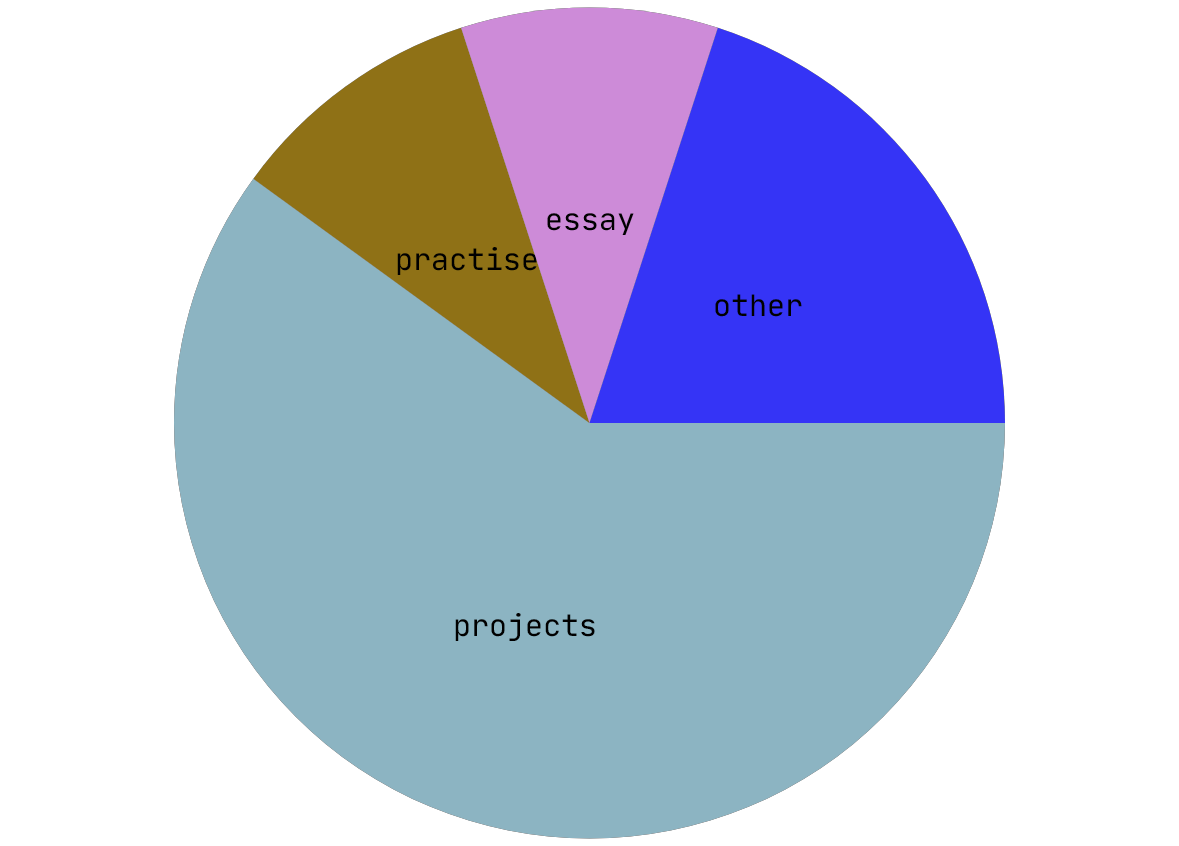
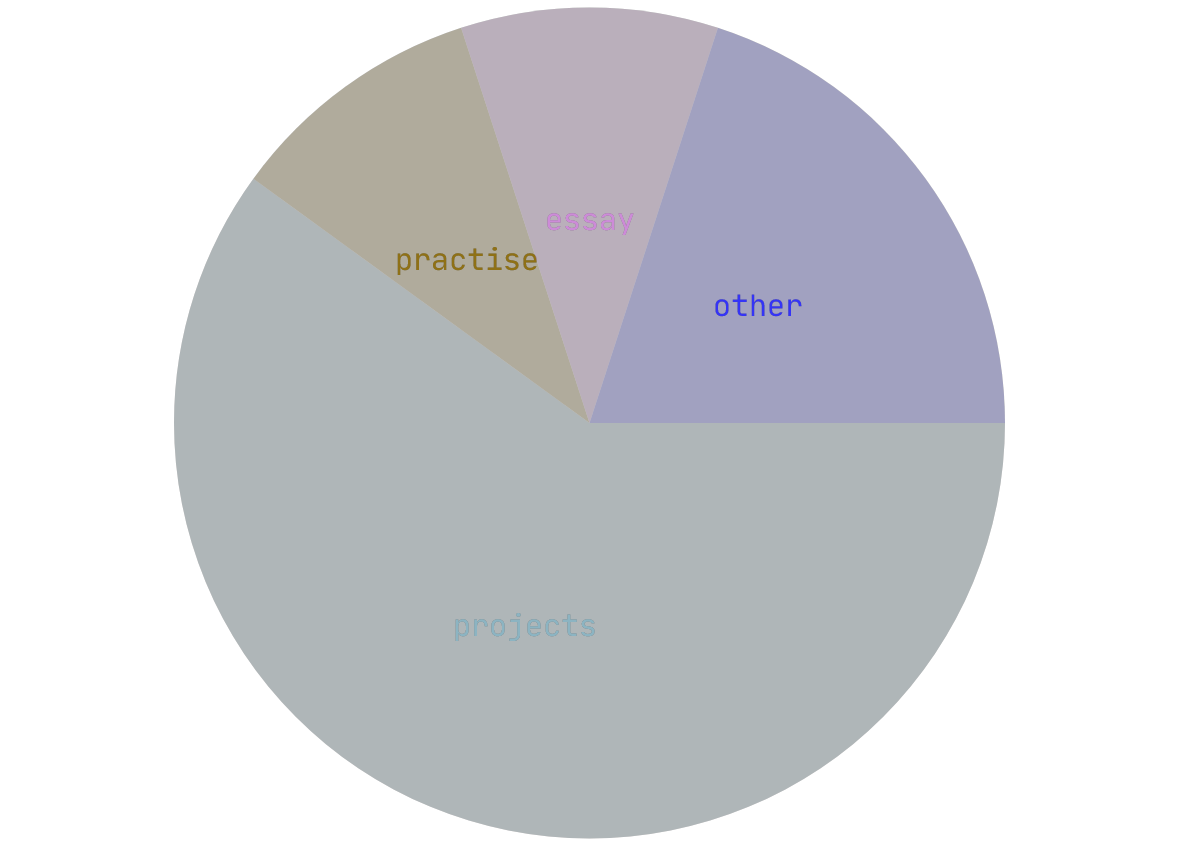
Changed colors of signs

diff --git a/src/main/kotlin/main.kt b/src/main/kotlin/main.kt
@@ -102,8 +102,14 @@ class Renderer(val layer: SkiaLayer, val chartInfo: ChartData): SkiaRenderer {
         layer.needRedraw()
     }
 
-    private fun randomColor(seed: Int): Int {
-        return 0xff000000L.toInt() + (0 until 256 * 256 * 256).random(Random(seed))
+    private fun randomFillPaint(seed: Int): Paint {
+        val randomColor = 0x66000000L.toInt() + (0 until 256 * 256 * 256).random(Random(seed))
+        return Paint().apply { color = randomColor; mode = PaintMode.STROKE_AND_FILL}
+    }
+
+    private fun randomTextPaint(seed: Int): Paint {
+        val randomColor = 0xFF000000L.toInt() + (0 until 256 * 256 * 256).random(Random(seed))
+        return Paint().apply { color = randomColor; mode = PaintMode.STROKE_AND_FILL}
     }
 
     private fun drawBarChart(canvas: Canvas, width: Float, height: Float) {
@@ -135,9 +141,10 @@ class Renderer(val layer: SkiaLayer, val chartInfo: ChartData): SkiaRenderer {
             currStart += bigIndent
 
             canvas.drawRect(Rect(currStart, bottom - axePaint.strokeWidth - k * it.value, currStart + barWidth, bottom - axePaint.strokeWidth),
-                Paint().apply { color = randomColor(currStart.toInt()); mode = PaintMode.STROKE_AND_FILL})
+                randomFillPaint(currStart.toInt()))
 
-            canvas.drawString(it.group_name!!, currStart + (barWidth - signFont.measureTextWidth(it.group_name)) / 2, height - smallIndent, signFont, textPaint)
+            canvas.drawString(it.group_name!!, currStart + (barWidth - signFont.measureTextWidth(it.group_name)) / 2, height - smallIndent, signFont,
+                randomTextPaint(currStart.toInt()))
 
             currStart += barWidth
         }
@@ -161,14 +168,14 @@ class Renderer(val layer: SkiaLayer, val chartInfo: ChartData): SkiaRenderer {
 
         fun drawSector(startAng: Float, deltaAng: Float) {
             canvas.drawArc(left, top, right, bottom, startAng, deltaAng, true,
-                Paint().apply { color = randomColor(startAng.toInt()); mode = PaintMode.STROKE_AND_FILL })
+                randomFillPaint(startAng.toInt()))
         }
 
         fun drawSign(startAng: Float, deltaAng: Float, s: String) {
             val signAng = degreesToRadians(startAng + deltaAng / 2)
             val signX = centerX + cos(-signAng).toFloat() * radius / 2 - signFont.measureTextWidth(s) / 2
             val signY = centerY - sin(-signAng).toFloat() * radius / 2 + signFont.size / 2
-            canvas.drawString(s, signX, signY, signFont, textPaint)
+            canvas.drawString(s, signX, signY, signFont, randomTextPaint(startAng.toInt()))
         }
 
         val sum = chartInfo.data.sumOf { it.value }
